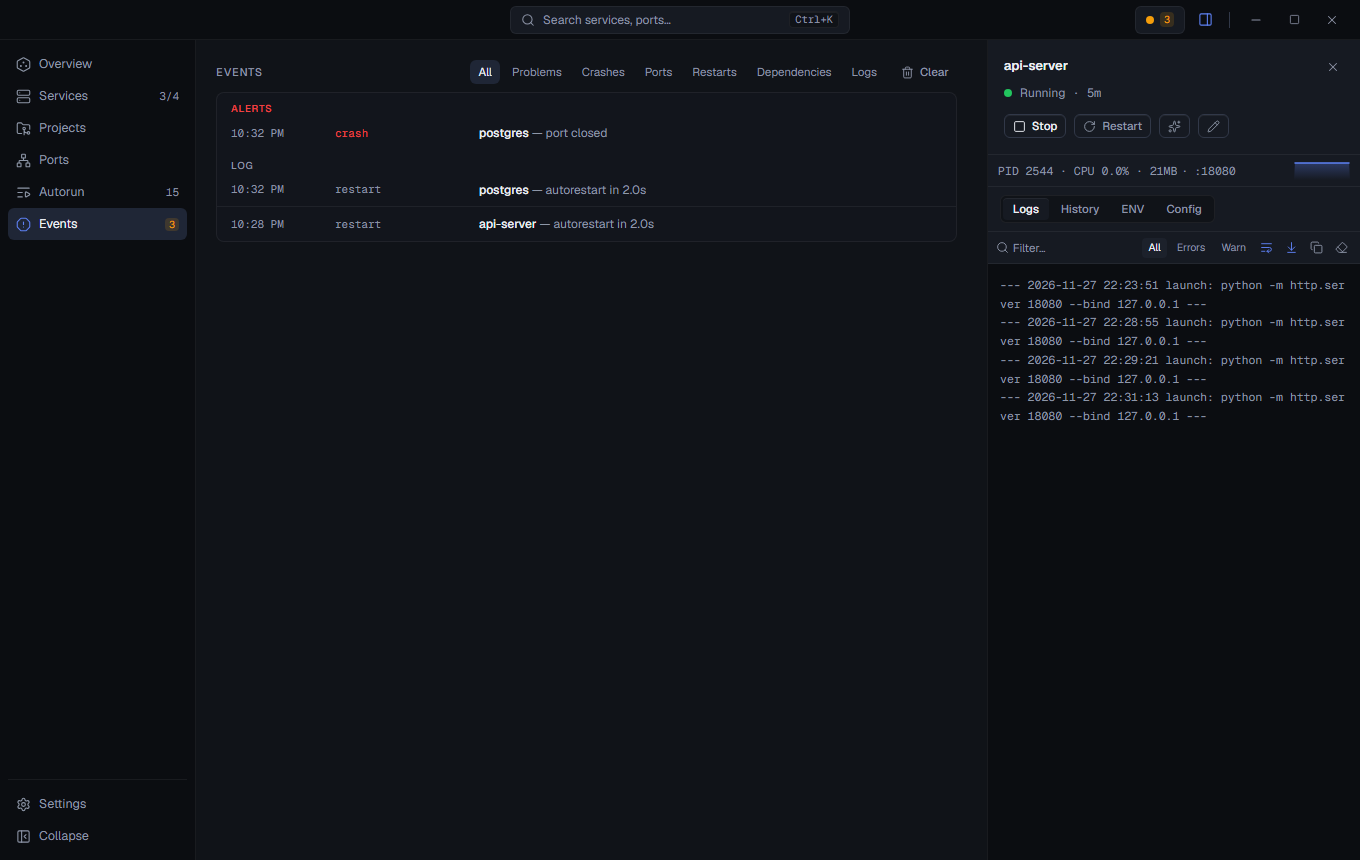
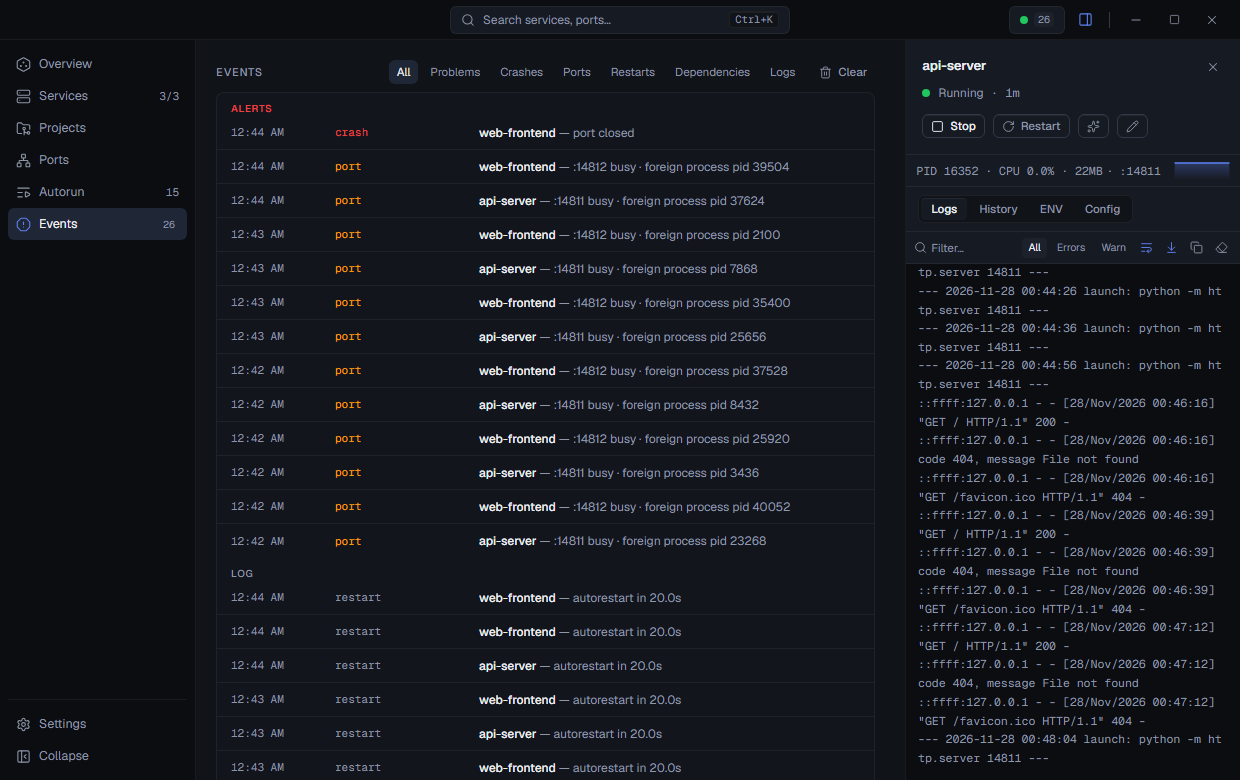
Add real-build evidence section to landing, retake view screenshots
New 07 // THE BUILD section before download: the actual binary watching
actual services — overview, attributed ports, event feed, three themes.
screenshot-ports/events retaken on a clean demo instance: the old ports
capture had the command palette open over the content.

Dogfooding bonus: the demo instance exposed api_ports 500ing on a leaked
loop variable — fixed in core.py the same hour.

diff --git a/docs/index.html b/docs/index.html
@@ -337,12 +337,50 @@
     </div>
   </section>
 
+  <!-- ============ 07 THE BUILD ============ -->
+  <section class="section" id="evidence">
+    <div class="wrap">
+      <div class="sec-head" data-reveal>
+        <p class="eyebrow">07 // THE BUILD</p>
+        <h2>Simulated above. Real here.</h2>
+        <p class="sec-sub">Every vignette on this page is a re-enactment. These are captures of the
+          actual binary watching actual services: same layout, same density, no set dressing.</p>
+      </div>
+      <div class="ev-grid" data-reveal data-stagger>
+        <figure class="ev-shot ev-full">
+          <img src="screenshot.png" alt="Dev Dashboard overview: service rows with live metrics, inspector streaming logs" loading="lazy">
+          <figcaption>OVERVIEW · INSPECTOR OPEN · GRAPHITE THEME</figcaption>
+        </figure>
+        <figure class="ev-shot">
+          <img src="screenshot-ports.png" alt="Ports view: every TCP listener attributed to its owning service" loading="lazy">
+          <figcaption>PORTS · EVERY LISTENER ATTRIBUTED</figcaption>
+        </figure>
+        <figure class="ev-shot">
+          <img src="screenshot-events.png" alt="Events view: crashes, restarts and port conflicts in one feed" loading="lazy">
+          <figcaption>EVENTS · CRASHES AND RESTARTS, EXPLAINED</figcaption>
+        </figure>
+        <figure class="ev-shot">
+          <img src="theme-paper.png" alt="Dev Dashboard in the paper light theme" loading="lazy">
+          <figcaption>PAPER</figcaption>
+        </figure>
+        <figure class="ev-shot">
+          <img src="theme-console.png" alt="Dev Dashboard in the console terminal-green theme" loading="lazy">
+          <figcaption>CONSOLE</figcaption>
+        </figure>
+        <figure class="ev-shot">
+          <img src="theme-retro.png" alt="Dev Dashboard in the retro classic theme" loading="lazy">
+          <figcaption>RETRO</figcaption>
+        </figure>
+      </div>
+    </div>
+  </section>
+
   <!-- ============ 07 DOWNLOAD ============ -->
   <section class="section download-section" id="download">
     <div class="wrap">
       <div class="dl-plate" data-reveal>
         <div class="mock-corner tl" aria-hidden="true"></div><div class="mock-corner br" aria-hidden="true"></div>
-        <p class="eyebrow">07 // DEPLOY</p>
+        <p class="eyebrow">08 // DEPLOY</p>
         <h2 class="dl-h">Get Dev Dashboard.</h2>
         <p class="dl-meta" id="dl-version">LATEST RELEASE · GITHUB</p>
         <a class="btn btn-primary btn-xl" id="dl-btn" href="https://github.com/dvinerlove/dev-dashboard/releases/latest" rel="noopener" aria-label="Download Dev Dashboard for Windows">

diff --git a/docs/landing.css b/docs/landing.css
@@ -850,3 +850,25 @@ body[data-theme="retro"] .panel {
   .boot-item, [data-reveal], [data-stagger].in > * { opacity: 1 !important; transform: none !important; }
   .svc.crashed .svc-dot { animation: none; }
 }
+
+/* ==== evidence (real build captures) ==== */
+.ev-grid { display: grid; grid-template-columns: repeat(6, 1fr); gap: 14px; }
+.ev-shot { margin: 0; border: 1px solid var(--line); background: var(--bg2); position: relative; }
+.ev-full { grid-column: span 6; }
+.ev-shot:not(.ev-full):nth-of-type(2), .ev-shot:not(.ev-full):nth-of-type(3) { grid-column: span 3; }
+.ev-shot:nth-of-type(4), .ev-shot:nth-of-type(5), .ev-shot:nth-of-type(6) { grid-column: span 2; }
+.ev-shot img { display: block; width: 100%; height: auto; border-bottom: 1px solid var(--line); }
+.ev-shot figcaption {
+  font-family: "JetBrains Mono", monospace; font-size: 10px; letter-spacing: .12em;
+  color: var(--ink3); padding: 8px 10px; text-transform: uppercase;
+}
+.ev-shot::before, .ev-shot::after {
+  content: ""; position: absolute; width: 7px; height: 7px; pointer-events: none;
+  border-color: var(--ink3); border-style: solid; opacity: .6;
+}
+.ev-shot::before { top: -1px; left: -1px; border-width: 1px 0 0 1px; }
+.ev-shot::after { bottom: -1px; right: -1px; border-width: 0 1px 1px 0; }
+@media (max-width: 760px) {
+  .ev-full, .ev-shot:not(.ev-full):nth-of-type(2), .ev-shot:not(.ev-full):nth-of-type(3),
+  .ev-shot:nth-of-type(4), .ev-shot:nth-of-type(5), .ev-shot:nth-of-type(6) { grid-column: span 6; }
+}
